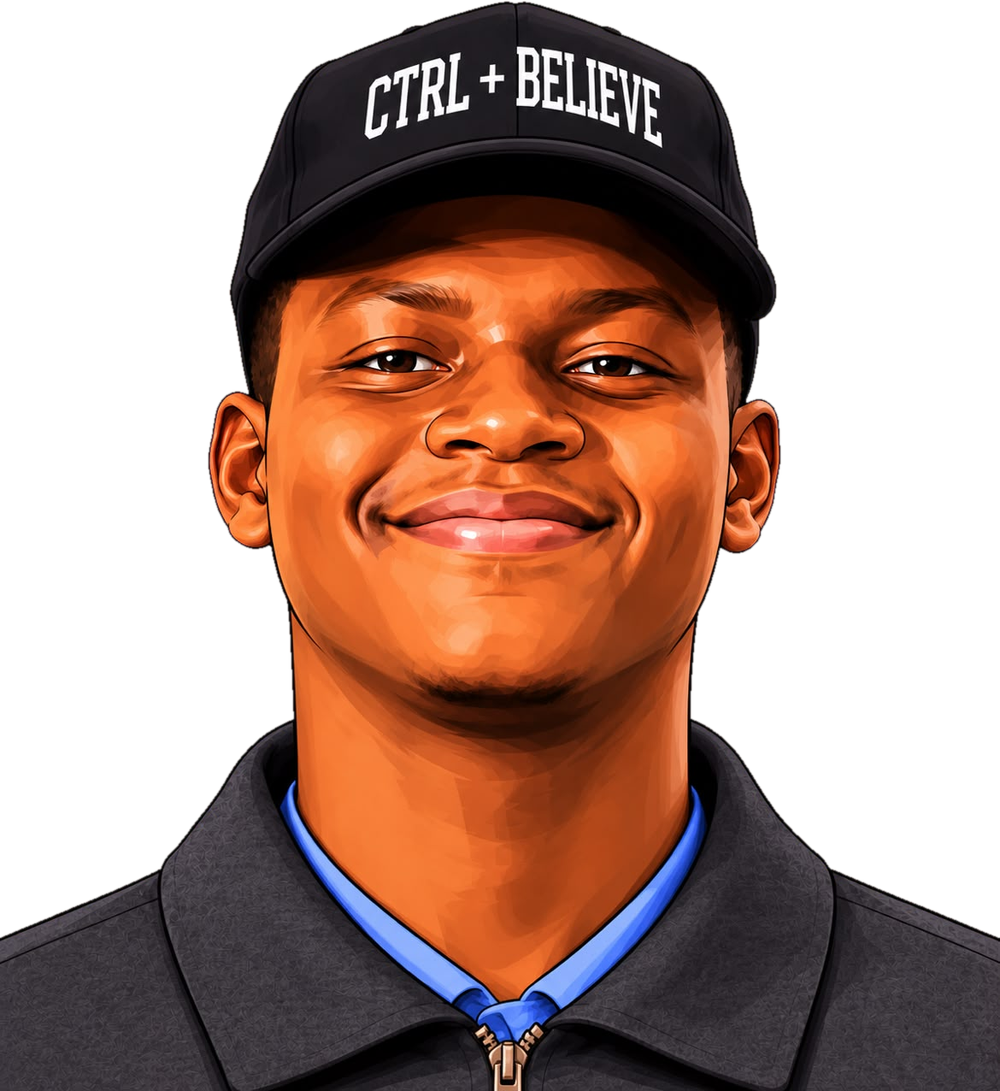
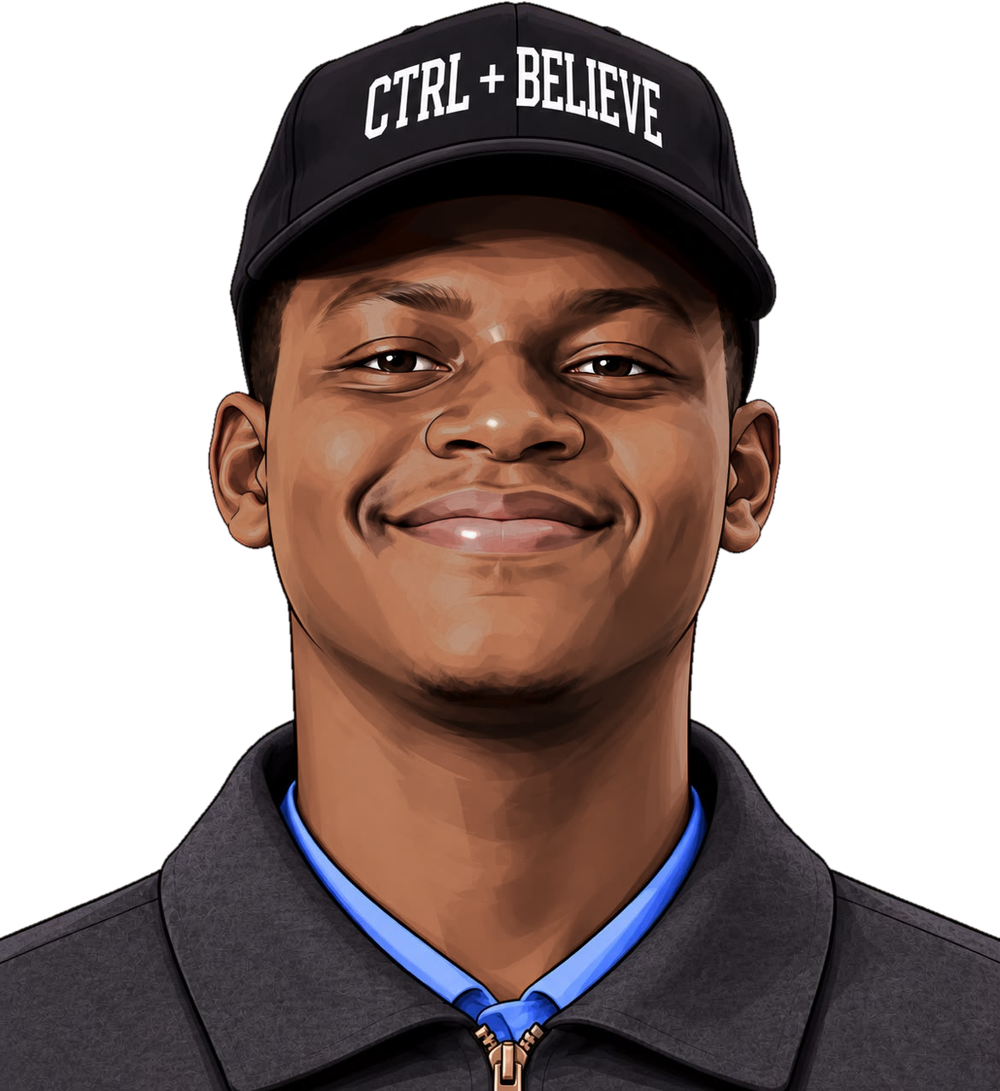
Founder portrait: deeper skin tone and a wink on double-tap
- Skin (face, ears, neck) deepened and desaturated toward the founder's real
  tone; cap, shirt, jacket and zip untouched
- Winking variant: open eye inpainted from surrounding eyelid skin, closed
  lid and lashes drawn (public/images/founder-portrait-wink.png)
- Double-tap/double-click swaps to the wink for ~1s with a playful tilt and a
  '😉 Let's create!' chip; single tap does nothing; no double-tap zoom
- Wink button for keyboard users; live announcement for screen readers

Claude-Session: https://claude.ai/code/session_01FYBoW1tSHscoiwJdJvKLMB

Changed region(s): [[0.186, 0.187, 0.806, 0.9349]]

diff --git a/src/components/about/Founder3D.tsx b/src/components/about/Founder3D.tsx
@@ -1,7 +1,7 @@
 "use client";
 
 import Image from "next/image";
-import { useEffect, useRef } from "react";
+import { useCallback, useEffect, useRef, useState } from "react";
 import { Contours } from "@/components/ui/Contours";
 
 /**
@@ -12,15 +12,23 @@ import { Contours } from "@/components/ui/Contours";
  * top of the frame), floating chips in front. The scene tilts towards the
  * pointer on devices with a mouse, floats gently on touch screens, and stays
  * still for visitors who prefer reduced motion.
+ *
+ * Double-tap / double-click (or the "Wink" button) swaps to a winking version
+ * of the portrait for a moment.
  */
+const DOUBLE_TAP_MS = 320;
+const WINK_MS = 1100;
+
 export function Founder3D({
   src,
+  winkSrc,
   alt,
   width,
   height,
   chips,
 }: {
   src: string;
+  winkSrc?: string;
   alt: string;
   width: number;
   height: number;
@@ -28,6 +36,39 @@ export function Founder3D({
 }) {
   const sceneRef = useRef<HTMLDivElement>(null);
   const cardRef = useRef<HTMLDivElement>(null);
+  const [winking, setWinking] = useState(false);
+  const winkTimer = useRef<number | null>(null);
+  const lastTap = useRef<{ t: number; x: number; y: number } | null>(null);
+
+  const wink = useCallback(() => {
+    if (!winkSrc) return;
+    setWinking(true);
+    if (winkTimer.current) window.clearTimeout(winkTimer.current);
+    winkTimer.current = window.setTimeout(() => setWinking(false), WINK_MS);
+  }, [winkSrc]);
+
+  useEffect(
+    () => () => {
+      if (winkTimer.current) window.clearTimeout(winkTimer.current);
+    },
+    [],
+  );
+
+  // Double-tap / double-click detection that works the same for mouse and touch.
+  const onPointerUp = (e: React.PointerEvent) => {
+    const now = performance.now();
+    const prev = lastTap.current;
+    if (
+      prev &&
+      now - prev.t < DOUBLE_TAP_MS &&
+      Math.hypot(e.clientX - prev.x, e.clientY - prev.y) < 40
+    ) {
+      lastTap.current = null;
+      wink();
+    } else {
+      lastTap.current = { t: now, x: e.clientX, y: e.clientY };
+    }
+  };
 
   useEffect(() => {
     const scene = sceneRef.current;
@@ -39,7 +80,11 @@ export function Founder3D({
       return;
     }
 
-    let tx = 0, ty = 0, cx = 0, cy = 0, frame = 0;
+    let tx = 0,
+      ty = 0,
+      cx = 0,
+      cy = 0,
+      frame = 0;
     const MAX = 11; // degrees
 
     const tick = () => {
@@ -49,7 +94,10 @@ export function Founder3D({
       card.style.setProperty("--ry", `${(cx * MAX).toFixed(2)}deg`);
       card.style.setProperty("--gx", `${((cx + 1) * 50).toFixed(1)}%`);
       card.style.setProperty("--gy", `${((cy + 1) * 50).toFixed(1)}%`);
-      frame = Math.abs(tx - cx) + Math.abs(ty - cy) > 0.001 ? requestAnimationFrame(tick) : 0;
+      frame =
+        Math.abs(tx - cx) + Math.abs(ty - cy) > 0.001
+          ? requestAnimationFrame(tick)
+          : 0;
     };
     const kick = () => {
       if (!frame) frame = requestAnimationFrame(tick);
@@ -89,57 +137,112 @@ export function Founder3D({
   };
 
   return (
-    <div ref={sceneRef} data-founder-3d className="relative pt-[14%] [perspective:1300px]">
+    <div className="flex flex-col items-center gap-4">
       <div
-        ref={cardRef}
-        className="founder-card relative aspect-[4/5] w-full [transform-style:preserve-3d] [transform:rotateX(var(--rx,0deg))_rotateY(var(--ry,0deg))]"
+        ref={sceneRef}
+        data-founder-3d
+        data-winking={winking || undefined}
+        onPointerUp={winkSrc ? onPointerUp : undefined}
+        className="relative w-full touch-manipulation pt-[14%] select-none [perspective:1300px]"
       >
-        {/* Back: frame, glow, contours */}
-        <div className="absolute inset-0 overflow-hidden rounded-[1.75rem] bg-gradient-to-b from-[#1d0d3a] via-[#150a2b] to-[#0b0614] ring-1 ring-white/10 lg:rounded-[2rem]">
-          <Contours className="absolute inset-0 h-full w-full text-purple-bright/15" />
-          <div aria-hidden className="absolute top-[18%] left-1/2 size-[70%] -translate-x-1/2 rounded-full bg-purple/45 blur-[70px]" />
-          <div aria-hidden className="absolute inset-x-0 bottom-0 h-1/3 bg-gradient-to-t from-black/50 to-transparent" />
-        </div>
-
-        {/* Ring behind the head */}
         <div
-          aria-hidden
-          className="absolute top-[6%] left-1/2 aspect-square w-[62%] rounded-full border border-purple-bright/40 [transform:translate3d(-50%,0,30px)]"
-        />
-
-        {/* Portrait: wider than the frame so the shoulders crop at the sides, and
-            tall enough that the head rises above the top edge. */}
-        <div className="absolute inset-0 [transform:translateZ(60px)] [clip-path:inset(-30%_0_0_0_round_0_0_1.75rem_1.75rem)] lg:[clip-path:inset(-30%_0_0_0_round_0_0_2rem_2rem)]">
-          <div className="absolute bottom-0 left-1/2 w-[128%] -translate-x-1/2">
-            <Image
-              src={src}
-              alt={alt}
-              width={width}
-              height={height}
-              priority
-              sizes="(min-width: 1024px) 52vw, 118vw"
-              className="h-auto w-full drop-shadow-[0_30px_40px_rgba(0,0,0,0.55)]"
+          ref={cardRef}
+          className="founder-card relative aspect-[4/5] w-full [transform-style:preserve-3d] [transform:rotateX(var(--rx,0deg))_rotateY(var(--ry,0deg))]"
+        >
+          {/* Back: frame, glow, contours */}
+          <div className="absolute inset-0 overflow-hidden rounded-[1.75rem] bg-gradient-to-b from-[#1d0d3a] via-[#150a2b] to-[#0b0614] ring-1 ring-white/10 lg:rounded-[2rem]">
+            <Contours className="absolute inset-0 h-full w-full text-purple-bright/15" />
+            <div
+              aria-hidden
+              className="absolute top-[18%] left-1/2 size-[70%] -translate-x-1/2 rounded-full bg-purple/45 blur-[70px]"
+            />
+            <div
+              aria-hidden
+              className="absolute inset-x-0 bottom-0 h-1/3 bg-gradient-to-t from-black/50 to-transparent"
             />
           </div>
-        </div>
 
-        {/* Front: floating chips */}
-        {chips.slice(0, 4).map((c, i) => (
-          <span
-            key={c.label}
+          {/* Ring behind the head */}
+          <div
             aria-hidden
-            className={`absolute rounded-full px-4 py-2 text-sm font-medium whitespace-nowrap shadow-[0_18px_40px_-12px_rgba(0,0,0,0.7)] [transform:translateZ(var(--z))] ${chipPos[i]} ${chipTone[c.tone ?? "dark"]}`}
-          >
-            {c.label}
-          </span>
-        ))}
+            className="absolute top-[6%] left-1/2 aspect-square w-[62%] rounded-full border border-purple-bright/40 [transform:translate3d(-50%,0,30px)]"
+          />
 
-        {/* Light sheen that follows the pointer */}
-        <div
-          aria-hidden
-          className="pointer-events-none absolute inset-0 rounded-[1.75rem] opacity-70 mix-blend-soft-light [background:radial-gradient(circle_at_var(--gx,50%)_var(--gy,30%),rgba(255,255,255,0.35),transparent_55%)] [transform:translateZ(150px)] lg:rounded-[2rem]"
-        />
+          {/* Portrait: wider than the frame so the shoulders crop at the sides, and
+            tall enough that the head rises above the top edge. */}
+          <div className="absolute inset-0 [transform:translateZ(60px)] [clip-path:inset(-30%_0_0_0_round_0_0_1.75rem_1.75rem)] lg:[clip-path:inset(-30%_0_0_0_round_0_0_2rem_2rem)]">
+            <div className="absolute bottom-0 left-1/2 w-[128%] -translate-x-1/2">
+              <div className={winking ? "founder-wink-pop" : undefined}>
+                <Image
+                  src={src}
+                  alt={alt}
+                  width={width}
+                  height={height}
+                  priority
+                  sizes="(min-width: 1024px) 52vw, 118vw"
+                  className="h-auto w-full drop-shadow-[0_30px_40px_rgba(0,0,0,0.55)]"
+                />
+                {winkSrc ? (
+                  <Image
+                    src={winkSrc}
+                    alt=""
+                    aria-hidden
+                    width={width}
+                    height={height}
+                    sizes="(min-width: 1024px) 52vw, 118vw"
+                    loading="eager"
+                    className={`absolute inset-0 h-auto w-full transition-opacity duration-75 ${winking ? "opacity-100" : "opacity-0"}`}
+                  />
+                ) : null}
+              </div>
+            </div>
+          </div>
+
+          {/* Front: floating chips */}
+          {chips.slice(0, 4).map((c, i) => (
+            <span
+              key={c.label}
+              aria-hidden
+              className={`absolute rounded-full px-4 py-2 text-sm font-medium whitespace-nowrap shadow-[0_18px_40px_-12px_rgba(0,0,0,0.7)] [transform:translateZ(var(--z))] ${chipPos[i]} ${chipTone[c.tone ?? "dark"]}`}
+            >
+              {c.label}
+            </span>
+          ))}
+
+          {/* Wink speech chip */}
+          {winkSrc ? (
+            <span
+              aria-hidden
+              className={`absolute top-[4%] right-[6%] rounded-full bg-purple-bright px-4 py-2 text-sm font-semibold whitespace-nowrap text-ink shadow-[0_18px_40px_-12px_rgba(0,0,0,0.7)] transition-[opacity,scale] duration-300 ease-[var(--ease-spring)] [transform:translateZ(170px)] ${winking ? "scale-100 opacity-100" : "scale-50 opacity-0"}`}
+            >
+              😉 Let&rsquo;s create!
+            </span>
+          ) : null}
+
+          {/* Light sheen that follows the pointer */}
+          <div
+            aria-hidden
+            className="pointer-events-none absolute inset-0 rounded-[1.75rem] opacity-70 mix-blend-soft-light [background:radial-gradient(circle_at_var(--gx,50%)_var(--gy,30%),rgba(255,255,255,0.35),transparent_55%)] [transform:translateZ(150px)] lg:rounded-[2rem]"
+          />
+        </div>
       </div>
+      {winkSrc ? (
+        <div className="flex items-center gap-3">
+          <p className="font-mono text-[0.75rem] text-mute">
+            Double-tap the portrait
+          </p>
+          <button
+            type="button"
+            onClick={wink}
+            className="h-10 rounded-full bg-purple-bright px-5 text-sm font-medium text-ink hover:bg-purple-soft"
+          >
+            Wink 😉
+          </button>
+        </div>
+      ) : null}
+      <p className="sr-only" aria-live="polite">
+        {winking ? "The founder winks." : ""}
+      </p>
     </div>
   );
 }

diff --git a/src/app/globals.css b/src/app/globals.css
@@ -384,3 +384,31 @@ html.intro .intro-sig {
     animation: none;
   }
 }
+
+/* Wink: a quick playful tilt of the portrait */
+@keyframes founder-wink-pop {
+  0% {
+    rotate: 0deg;
+    scale: 1;
+  }
+  30% {
+    rotate: -2.5deg;
+    scale: 1.03;
+  }
+  100% {
+    rotate: 0deg;
+    scale: 1;
+  }
+}
+
+.founder-wink-pop {
+  position: relative;
+  transform-origin: 50% 80%;
+  animation: founder-wink-pop 0.7s var(--ease-spring) both;
+}
+
+@media (prefers-reduced-motion: reduce) {
+  .founder-wink-pop {
+    animation: none;
+  }
+}

diff --git a/src/app/(site)/about/page.tsx b/src/app/(site)/about/page.tsx
@@ -132,6 +132,7 @@ export default function AboutPage() {
                 <Reveal className="px-3 sm:px-6 lg:col-span-5 lg:px-2">
                   <Founder3D
                     src={founder.photo}
+                    winkSrc={founder.photoWink}
                     width={founder.photoWidth}
                     height={founder.photoHeight}
                     alt={`Illustrated portrait of ${founder.name}, founder of Bezalel Designs`}

diff --git a/src/config/about.ts b/src/config/about.ts
@@ -17,6 +17,7 @@ export const founder = {
   closing: "Let’s create. Let’s inspire. Let’s make a difference, one design at a time.",
   tools: ["Adobe Photoshop", "Canva"],
   photo: "/images/founder-portrait.png",
+  photoWink: "/images/founder-portrait-wink.png",
   photoWidth: 1000,
   photoHeight: 1091,
 };
